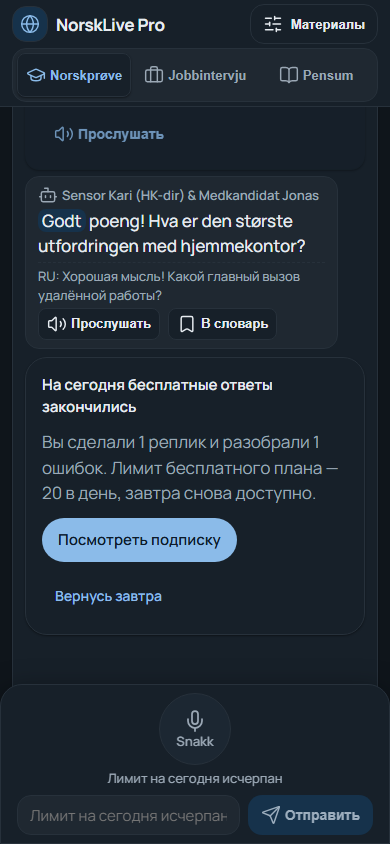
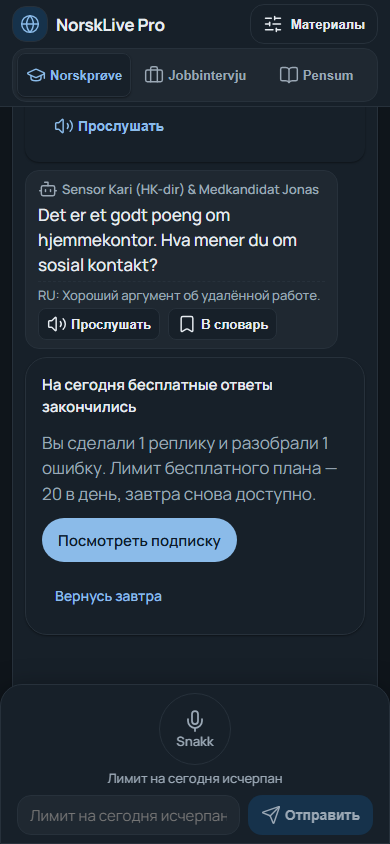
fix(studio): use Intl.PluralRules('ru') on daily-limit card and update screenshots (#39)

diff --git a/tests/sessionsUi.test.tsx b/tests/sessionsUi.test.tsx
@@ -172,7 +172,7 @@ describe('M1b-2b-2 UI tests: session restore, daily-limit card, #plans block, an
 
     expect(
       screen.getByText(
-        'Вы сделали 2 реплик и разобрали 2 ошибок. Лимит бесплатного плана — 20 в день, завтра снова доступно.'
+        'Вы сделали 2 реплики и разобрали 2 ошибки. Лимит бесплатного плана — 20 в день, завтра снова доступно.'
       )
     ).toBeTruthy();
 
@@ -216,5 +216,25 @@ describe('M1b-2b-2 UI tests: session restore, daily-limit card, #plans block, an
     expect(
       screen.getByText('Месяц — 249 kr, 300 ответов в день. Оплата появится скоро.')
     ).toBeTruthy();
+  });
+
+  it('formats Russian plural forms (реплику/реплики/реплик, ошибку/ошибки/ошибок) for 1, 2, 5, 11, 21 and 22', async () => {
+    const { formatCountRu } = await import('../src/lib/plural');
+    const replika = { one: 'реплику', few: 'реплики', many: 'реплик' };
+    const oshibka = { one: 'ошибку', few: 'ошибки', many: 'ошибок' };
+
+    expect(formatCountRu(1, replika)).toBe('1 реплику');
+    expect(formatCountRu(2, replika)).toBe('2 реплики');
+    expect(formatCountRu(5, replika)).toBe('5 реплик');
+    expect(formatCountRu(11, replika)).toBe('11 реплик');
+    expect(formatCountRu(21, replika)).toBe('21 реплику');
+    expect(formatCountRu(22, replika)).toBe('22 реплики');
+
+    expect(formatCountRu(1, oshibka)).toBe('1 ошибку');
+    expect(formatCountRu(2, oshibka)).toBe('2 ошибки');
+    expect(formatCountRu(5, oshibka)).toBe('5 ошибок');
+    expect(formatCountRu(11, oshibka)).toBe('11 ошибок');
+    expect(formatCountRu(21, oshibka)).toBe('21 ошибку');
+    expect(formatCountRu(22, oshibka)).toBe('22 ошибки');
   });
 });

diff --git a/src/components/studio/ChatPanel.tsx b/src/components/studio/ChatPanel.tsx
@@ -4,8 +4,12 @@ import { useEffect, useRef, useState } from 'react';
 import { Bookmark, Bot, Volume2, X } from 'lucide-react';
 import type { Correction } from '../../server/schemas';
 import type { LearnerMood } from '../../lib/prefs';
+import { formatCountRu } from '../../lib/plural';
 import { CorrectionCard } from './CorrectionCard';
 import type { ChatMessage, L1Language, QuotaExceededInfo } from './useStudioState';
+
+const REPLIKA_FORMS = { one: 'реплику', few: 'реплики', many: 'реплик' } as const;
+const ERROR_FORMS = { one: 'ошибку', few: 'ошибки', many: 'ошибок' } as const;
 
 export interface ChatPanelProps {
   chatHistory: ChatMessage[];
@@ -208,7 +212,7 @@ export function ChatPanel({
             На сегодня бесплатные ответы закончились
           </h3>
           <p className="daily-limit-body t-body">
-            {`Вы сделали ${learnerTurnCount} реплик и разобрали ${coachingHistory.length} ошибок. Лимит бесплатного плана — ${quotaExceeded.limit} в день, завтра снова доступно.`}
+            {`Вы сделали ${formatCountRu(learnerTurnCount, REPLIKA_FORMS)} и разобрали ${formatCountRu(coachingHistory.length, ERROR_FORMS)}. Лимит бесплатного плана — ${quotaExceeded.limit} в день, завтра снова доступно.`}
           </p>
           <div className="daily-limit-actions">
             <a

diff --git a/src/lib/plural.ts b/src/lib/plural.ts
@@ -1,0 +1,18 @@
+const ruPluralRules = new Intl.PluralRules('ru');
+
+export interface RuPluralForms {
+  one: string;
+  few: string;
+  many: string;
+}
+
+export function pluralRu(count: number, forms: RuPluralForms): string {
+  const category = ruPluralRules.select(Math.abs(count));
+  if (category === 'one') return forms.one;
+  if (category === 'few') return forms.few;
+  return forms.many;
+}
+
+export function formatCountRu(count: number, forms: RuPluralForms): string {
+  return `${count} ${pluralRu(count, forms)}`;
+}
